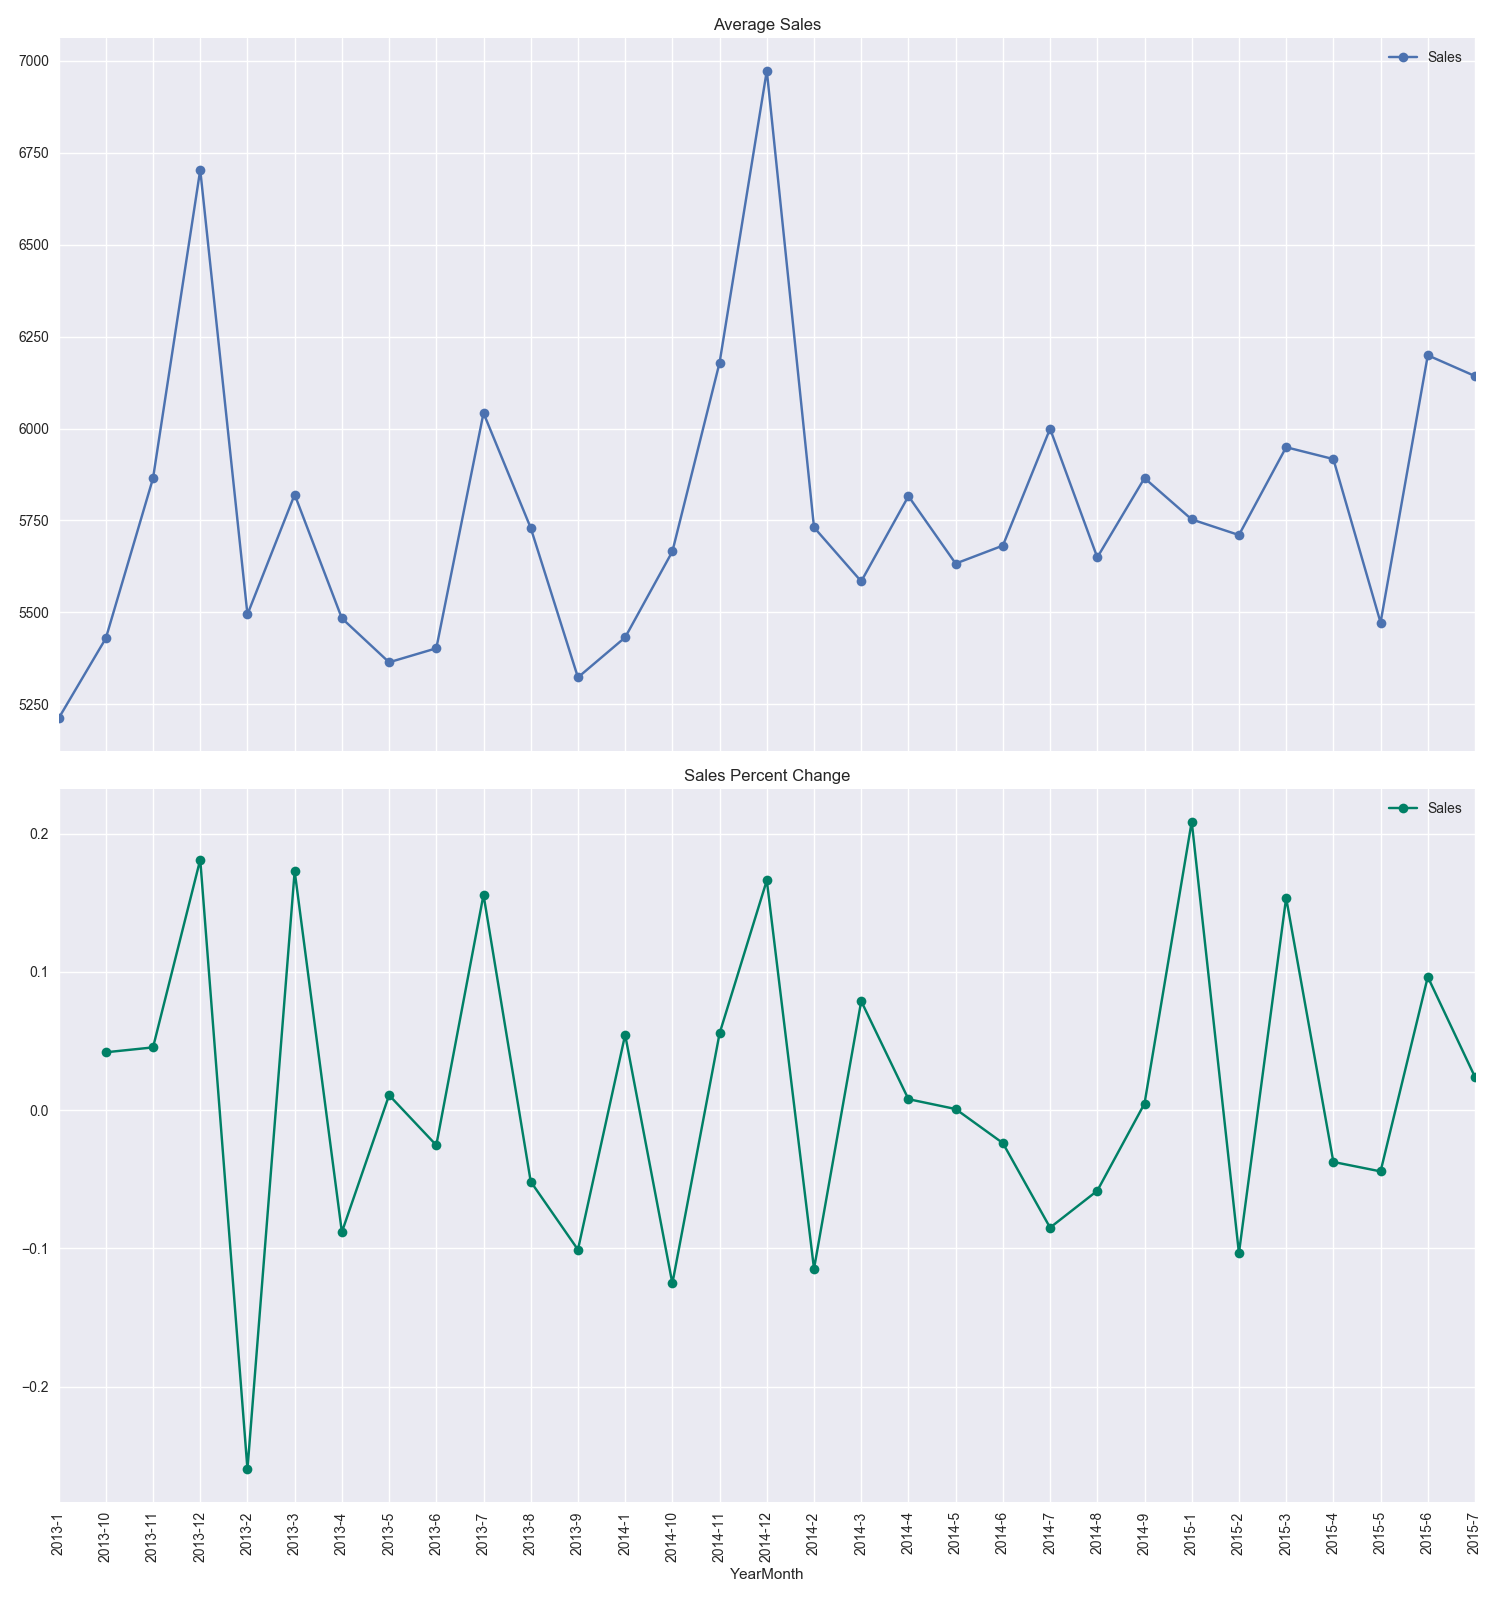
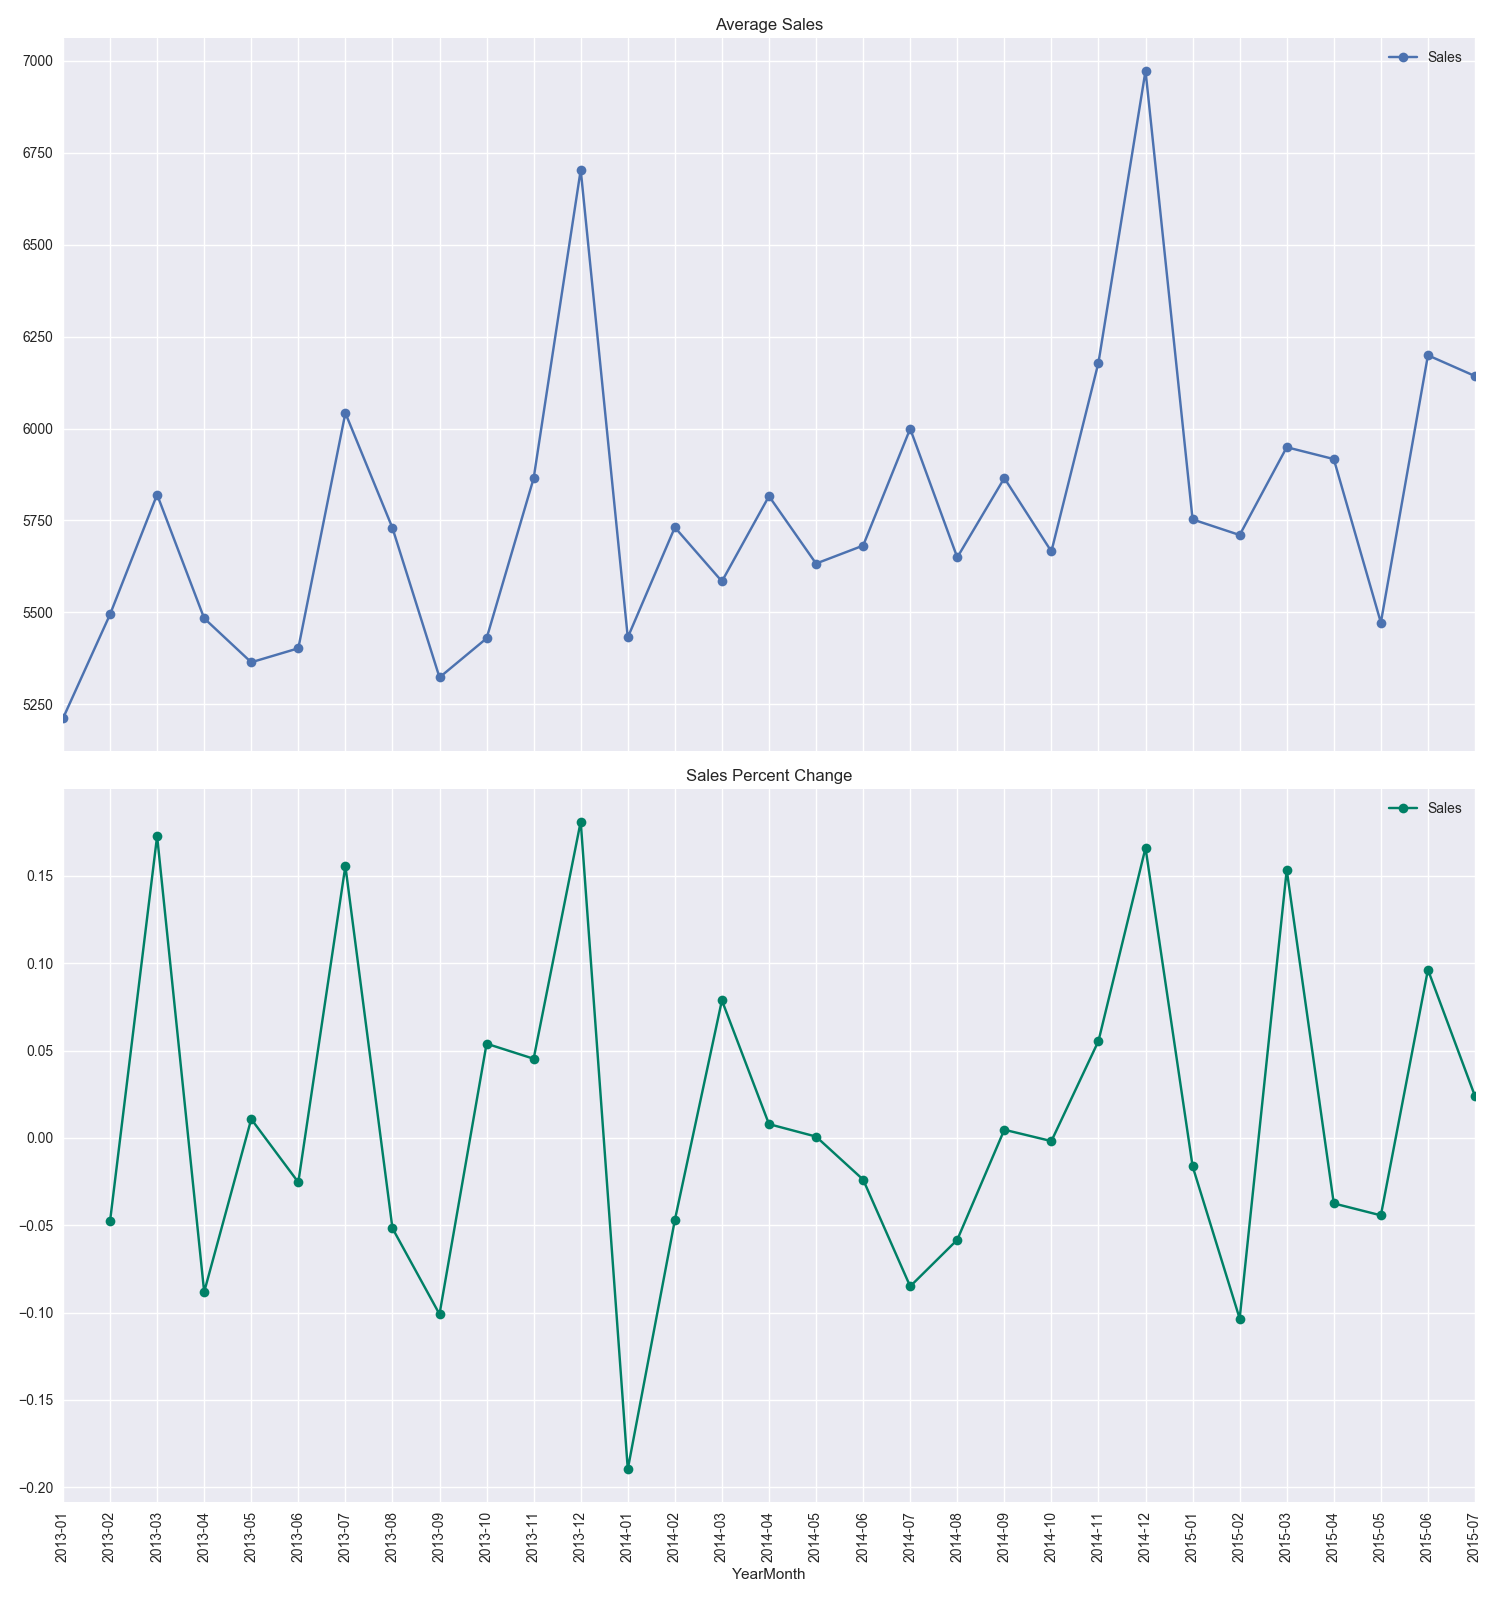
Fixed "YearMonth" Issue

diff --git a/generateplots.py b/generateplots.py
@@ -25,6 +25,13 @@ store_df = pd.read_csv("data/store.csv")
 def is_nan(val):
     return val != val
 
+
+def less_than_ten(val):
+    if int(val) < 10:
+        return "0" + val
+    else:
+        return val
+
 ############################################
 # training_df                              #
 ############################################
@@ -34,7 +41,7 @@ training_df["Year"] = training_df["Date"].apply(lambda x: dt.datetime.strptime(x
 training_df["Month"] = training_df["Date"].apply(lambda x: dt.datetime.strptime(x, "%Y-%m-%d").month)
 
 # Create "YearMonth" column
-training_df["YearMonth"] = training_df["Date"].apply(lambda x: str(dt.datetime.strptime(x, "%Y-%m-%d").year) + "-" + str(dt.datetime.strptime(x, "%Y-%m-%d").month))
+training_df["YearMonth"] = training_df["Date"].apply(lambda x: str(dt.datetime.strptime(x, "%Y-%m-%d").year) + "-" + less_than_ten(str(dt.datetime.strptime(x, "%Y-%m-%d").month)))
 
 # "StateHoliday" has values "0" & 0
 training_df["StateHoliday"].loc[training_df["StateHoliday"] == 0] = "0"
